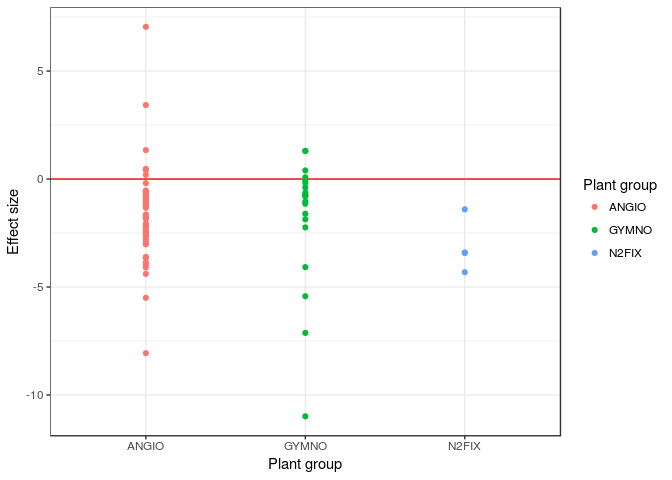
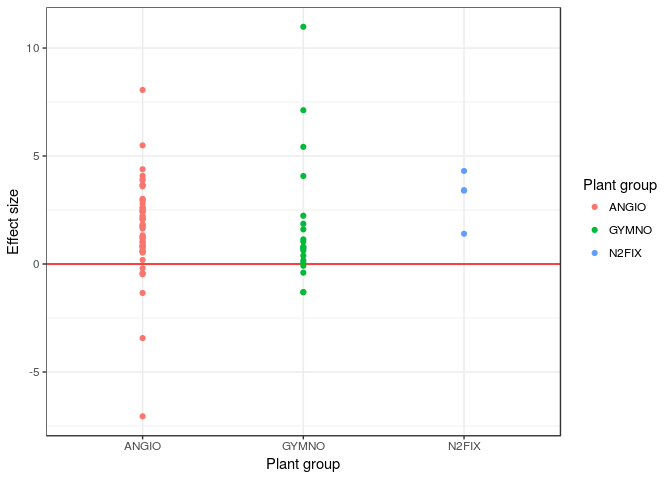
updates... 99, 100, 101...

diff --git a/pages/Day1.md b/pages/Day1.md
@@ -1,13 +1,18 @@
 Day 1: Calculating effect sizes
 ================
 
+Load packages
+-------------
+
+    require(gdata)
+    require(metafor)
+    require(dplyr)
+    require(ggplot2)
+
 Download data
 -------------
 
-For this exercise, we'll be using the Curtis et al. (1999) data set that contains gas exchange observations (i.e. photosynthesis)
-of 65 tree species. This data has been extracted from 84 papers and includes mean, standard deviation, coefficient of variation, and number of observations for elevated and ambient levels of C02.
-
-This data set and others are available for downloading from [NCEAS](https://www.nceas.ucsb.edu/meta/publications.html#d_t_t)
+For this exercise, we'll use the Curtis et al. (1999) data set that contains an array of plant measurements taken on 65 tree species under control and elevated CO<sub>2</sub> levels This data has been extracted from 84 papers and includes mean, standard deviation, coefficient of variation, and number of observations.
 
 ``` r
 curtis<-read.xls("http://www.nceas.ucsb.edu/meta/Curtis/Curtis_CO2_database.xls",as.is=TRUE,verbose=FALSE,sheet=1)
@@ -49,70 +54,27 @@ str(curtis)
 Calculate effect sizes
 ----------------------
 
-For the Curtis data set, the response variables are all measured on a quantitative scale. This allows us the possibility of calculating a number of traditional effect sizes, including Hedge's D and the log-response ratio. In 'metafor' these effect sizes are referred to as 'SMD' and 'ROM', respectively.
+For the Curtis data set, the response variables are all measured on a continuous scale. This allows us to calculate a number of traditional effect sizes, including Hedge's D and the log-response ratio. In 'metafor' these effect sizes are referred to as 'SMD' and 'ROM', respectively.
 
 In this case, we need the following variables to calculate effect sizes: mean, standard deviation, and sample size.
 
 Additionally, sampling variances can be estimated differently. The default setting (used here) is the 'large-sample approximation' (vtype='LS'). For Hedge's D, one can also estimate 'unbiased estimates' (vtype='UB'); for log-response ratio, 'LS' calculates sampling variance without assuming homoscedasticity while 'HO' assumes that variances are the same in control and treatment groups.
 
+Note that 'group 1' (e.g. 'm1i' , 'sd1i') correspond to the treatment group and 'group 2' (e.g. 'm2i', 'sd2i') correspond to the control group.
+
 ### Hedges' D: Photosynthesis
 
 ``` r
-require(metafor,quietly = TRUE)
-
-curtis_ES<-escalc(measure='SMD', m1i=X_AMB , sd1i=SD_AMB, n1i=N_AMB, m2i=X_ELEV, sd2i=SD_ELEV, n2i=N_ELEV, vtype='LS',var.names=c("Hedges_D","Hedges_var"),data=curtis)
-
-str(curtis_ES)
+curtis_ES<-escalc(measure='SMD', m2i=X_AMB , sd2i=SD_AMB, n2i=N_AMB, m1i=X_ELEV, sd1i=SD_ELEV, n1i=N_ELEV, vtype='LS',var.names=c("Hedges_D","Hedges_var"),data=curtis)
 ```
 
-    ## Classes 'escalc' and 'data.frame':   784 obs. of  31 variables:
-    ##  $ OBSNO     : int  1 2 3 4 5 6 7 8 9 10 ...
-    ##  $ PAP_NO    : int  44 44 44 44 44 44 44 44 44 44 ...
-    ##  $ PARAM     : chr  "PN" "PN" "AGWT" "AGWT" ...
-    ##  $ P_UNIT    : chr  "umolCO2/m2/s" "umolCO2/m2/s" "mg" "mg" ...
-    ##  $ GENUS     : chr  "ALNUS" "ALNUS" "ALNUS" "ALNUS" ...
-    ##  $ SPECIES   : chr  "RUBRA" "RUBRA" "RUBRA" "RUBRA" ...
-    ##  $ DIV1      : chr  "WOODY" "WOODY" "WOODY" "WOODY" ...
-    ##  $ DIV2      : chr  "N2FIX" "N2FIX" "N2FIX" "N2FIX" ...
-    ##  $ AMBC      : num  350 350 350 350 350 350 350 350 350 350 ...
-    ##  $ ELEV      : num  650 650 650 650 650 650 650 650 650 650 ...
-    ##  $ CO2_UNIT  : chr  "ul/l" "ul/l" "ul/l" "ul/l" ...
-    ##  $ TIME      : int  46 46 47 47 47 47 47 47 47 47 ...
-    ##  $ POT       : chr  "0.5" "0.5" "0.5" "0.5" ...
-    ##  $ METHOD    : chr  "GC" "GC" "GC" "GC" ...
-    ##  $ STOCK     : chr  "SEED" "SEED" "SEED" "SEED" ...
-    ##  $ XTRT      : chr  "FERT" "FERT" "FERT" "FERT" ...
-    ##  $ LEVEL     : chr  "HI" "CONTROL" "HI" "CONTROL" ...
-    ##  $ QUANT     : chr  "20mgN/l" "." "20mgN/l" "." ...
-    ##  $ SOURCE    : chr  "T3" "T3" "T1" "T1" ...
-    ##  $ X_AMB     : num  11.8 11.7 2500.5 1460.5 1444.5 ...
-    ##  $ SE_AMB    : num  0.64 1.16 324.3 76.6 219.6 ...
-    ##  $ SD_AMB    : num  1.43 2.59 725.16 171.28 491.04 ...
-    ##  $ CV._AMB   : num  12.8 23.3 30.5 12.3 35.7 ...
-    ##  $ N_AMB     : int  5 5 5 5 5 5 5 5 5 5 ...
-    ##  $ X_ELEV    : num  23.2 25.9 4076.4 1805.3 2740.6 ...
-    ##  $ SE_ELEV   : num  4.61 1.48 601.7 221.1 525.2 ...
-    ##  $ SD_ELEV   : num  10.31 3.31 1042.17 494.39 909.67 ...
-    ##  $ CV._ELEV  : num  46.7 13.4 27.7 28.8 36 ...
-    ##  $ N_ELEV    : int  5 5 3 5 3 5 3 5 3 5 ...
-    ##  $ Hedges_D  : atomic  -1.402 -4.311 -1.622 -0.841 -1.704 ...
-    ##   ..- attr(*, "measure")= chr "SMD"
-    ##   ..- attr(*, "ni")= int  10 10 8 10 8 10 8 10 8 10 ...
-    ##  $ Hedges_var: num  0.498 1.329 0.698 0.435 0.715 ...
-    ##  - attr(*, "digits")= num 4
-    ##  - attr(*, "yi.names")= chr "Hedges_D"
-    ##  - attr(*, "vi.names")= chr "Hedges_var"
-
-Visualize effect sizes (part I) : forest plots
-----------------------------------------------
+Visualize effect sizes (part I): forest plots
+---------------------------------------------
 
 Please note that the first 25 observations are presented for visualization reasons. If you want to look at all effect sizes,
 use the name of the larger data frame ('hedges\_PN') in the 'forest' function.
 
 ``` r
-require(metafor,quietly = TRUE)
-require(dplyr,quietly=TRUE)
-
 hedges_PN<-filter(curtis_ES, PARAM=="PN")
 hedges_PN<-arrange(hedges_PN, GENUS)
 hedges_PNN<-hedges_PN[1:25,]  # not necessary
@@ -122,16 +84,14 @@ forest(hedges_PNN$Hedges_D,hedges_PNN$Hedges_var, slab=hedges_PNN$GENUS, showwei
 
 ![](Day1_files/figure-markdown_github-ascii_identifiers/forestplot-1.png)
 
+**QUESTION: Do trees have higher or lower photosynthesis under ambient or elevated CO<sub>2</sub> conditions?**
+
 Visualize effect sizes (part II): explore moderators
 ----------------------------------------------------
 
-Another alternative for looking at effect sizes per group would be using histograms or density distributions.
+Alternatives for visually assessing effect sizes (per group) include histograms or density distributions.
 
 ``` r
-require(metafor,quietly = TRUE)
-require(dplyr,quietly=TRUE)
-require(ggplot2)
-
 hedges_PN$SE<-sqrt(hedges_PN$Hedges_var)
 
 dodge <- position_dodge(width=1)
@@ -147,14 +107,16 @@ ggplot(hedges_PN, aes(x=DIV2, y=Hedges_D, colour=DIV2)) +
 
 ![](Day1_files/figure-markdown_github-ascii_identifiers/forestplott-1.png)
 
+**QUESTION: Are there differences among functional groups in terms of their response to elevated CO<sub>2</sub>?\#**
+
 ### LRR: water-use efficiency
 
-The log-response ratio is a commonly used effect size and -- once backtransformed -- is thought to be easier for readers to understand (e.g. the mean effect size is 10% greater than the control).
+The log-response ratio is a commonly used effect size and -- once backtransformed -- is easier to understand (e.g. the mean effect size is 10% greater than the control).
 
 ``` r
 require(metafor,quietly = TRUE)
 
-curtis_ES2<-escalc(measure='ROM', m1i=X_AMB , sd1i=SD_AMB, n1i=N_AMB, m2i=X_ELEV, sd2i=SD_ELEV, n2i=N_ELEV, vtype='LS',var.names=c("LRR","LRR_var"),data=curtis)
+curtis_ES2<-escalc(measure='ROM', m2i=X_AMB , sd2i=SD_AMB, n2i=N_AMB, m1i=X_ELEV, sd1i=SD_ELEV, n1i=N_ELEV, vtype='LS',var.names=c("LRR","LRR_var"),data=curtis)
 ```
 
     ## Warning in log(m1i/m2i): NaNs produced
@@ -193,7 +155,7 @@ str(curtis_ES2)
     ##  $ SD_ELEV : num  10.31 3.31 1042.17 494.39 909.67 ...
     ##  $ CV._ELEV: num  46.7 13.4 27.7 28.8 36 ...
     ##  $ N_ELEV  : int  5 5 3 5 3 5 3 5 3 5 ...
-    ##  $ LRR     : atomic  -0.679 -0.795 -0.489 -0.212 -0.64 ...
+    ##  $ LRR     : atomic  0.679 0.795 0.489 0.212 0.64 ...
     ##   ..- attr(*, "measure")= chr "ROM"
     ##   ..- attr(*, "ni")= int  10 10 8 10 8 10 8 10 8 10 ...
     ##  $ LRR_var : num  0.0424 0.0131 0.0386 0.0178 0.0598 ...
@@ -216,4 +178,6 @@ forest(LRR_WUE$LRR,LRR_WUE$LRR_var, slab=LRR_WUE$GENUS, showweights=TRUE)
 
 ![](Day1_files/figure-markdown_github-ascii_identifiers/forestplot2-1.png)
 
-Note that the next to each effect size is the weight of each point.
+Note that the percentage next to each effect size is the weight of each point.
+
+**QUESTION: Do trees have higher or lower water-use efficiency in response to elevated CO<sub>2</sub>?**

diff --git a/index.md b/index.md
@@ -4,8 +4,6 @@ title: Exercises for 'Meta-analysis in biological and environmental sciences'
 
 ---
 
-The present site is the starting point for the exercises in R that we will be using  
-to get our hands dirty and put into action topics that we have discussed in our lectures.  
 
 ### Before our course  
 
@@ -15,7 +13,7 @@ to get our hands dirty and put into action topics that we have discussed in our 
 ```
 install.packages(c("metafor","compute.es","ggplot2","dplyr","reshape2","broom","tidyr"),quietly=TRUE)
 ```
-3) If you already have R installed, please update it to the latest version 
+3) If you already have R installed, please update it to the latest version:  
 
 ```
 
@@ -25,13 +23,16 @@ updateR()
 
 ```
 
-4) Update your packages to the latest version as well
+4) Update your packages to the latest version as well:  
 
 ```
 update.packages()
 ```
 
-### Course schedule
+### Course schedule \& exercises  
+
+Throughout this course we will use data from [NCEAS](https://www.nceas.ucsb.edu/meta/publications.html#d_t_t)  
+You can download the data directly or download using the R code included in the exercises.  
 
 [Day 1: Calculating effect sizes](pages/Day1.html)  
 [Day 2: Hierarchical meta-analytical models](pages/Day2.html)  
@@ -40,5 +41,15 @@ update.packages()
 
 ### Additional resources
 
+General reference for how to implement meta-analysis in R: [metafor's website](http://www.metafor-project.org/doku.php) \& [general overview of 'metafor'](http://www.jstatsoft.org/v36/i03/)  
 
-[metafor](http://www.metafor-project.org/doku.php)  
+New R packages for extracting summary data from figures
+[digitize](https://github.com/tpoisot/digitize/)
+
+ImageJ: open-source software for extracting summary data from figures
+[ImageJ](https://imagej.net/Welcome)
+
+
+
+
+
